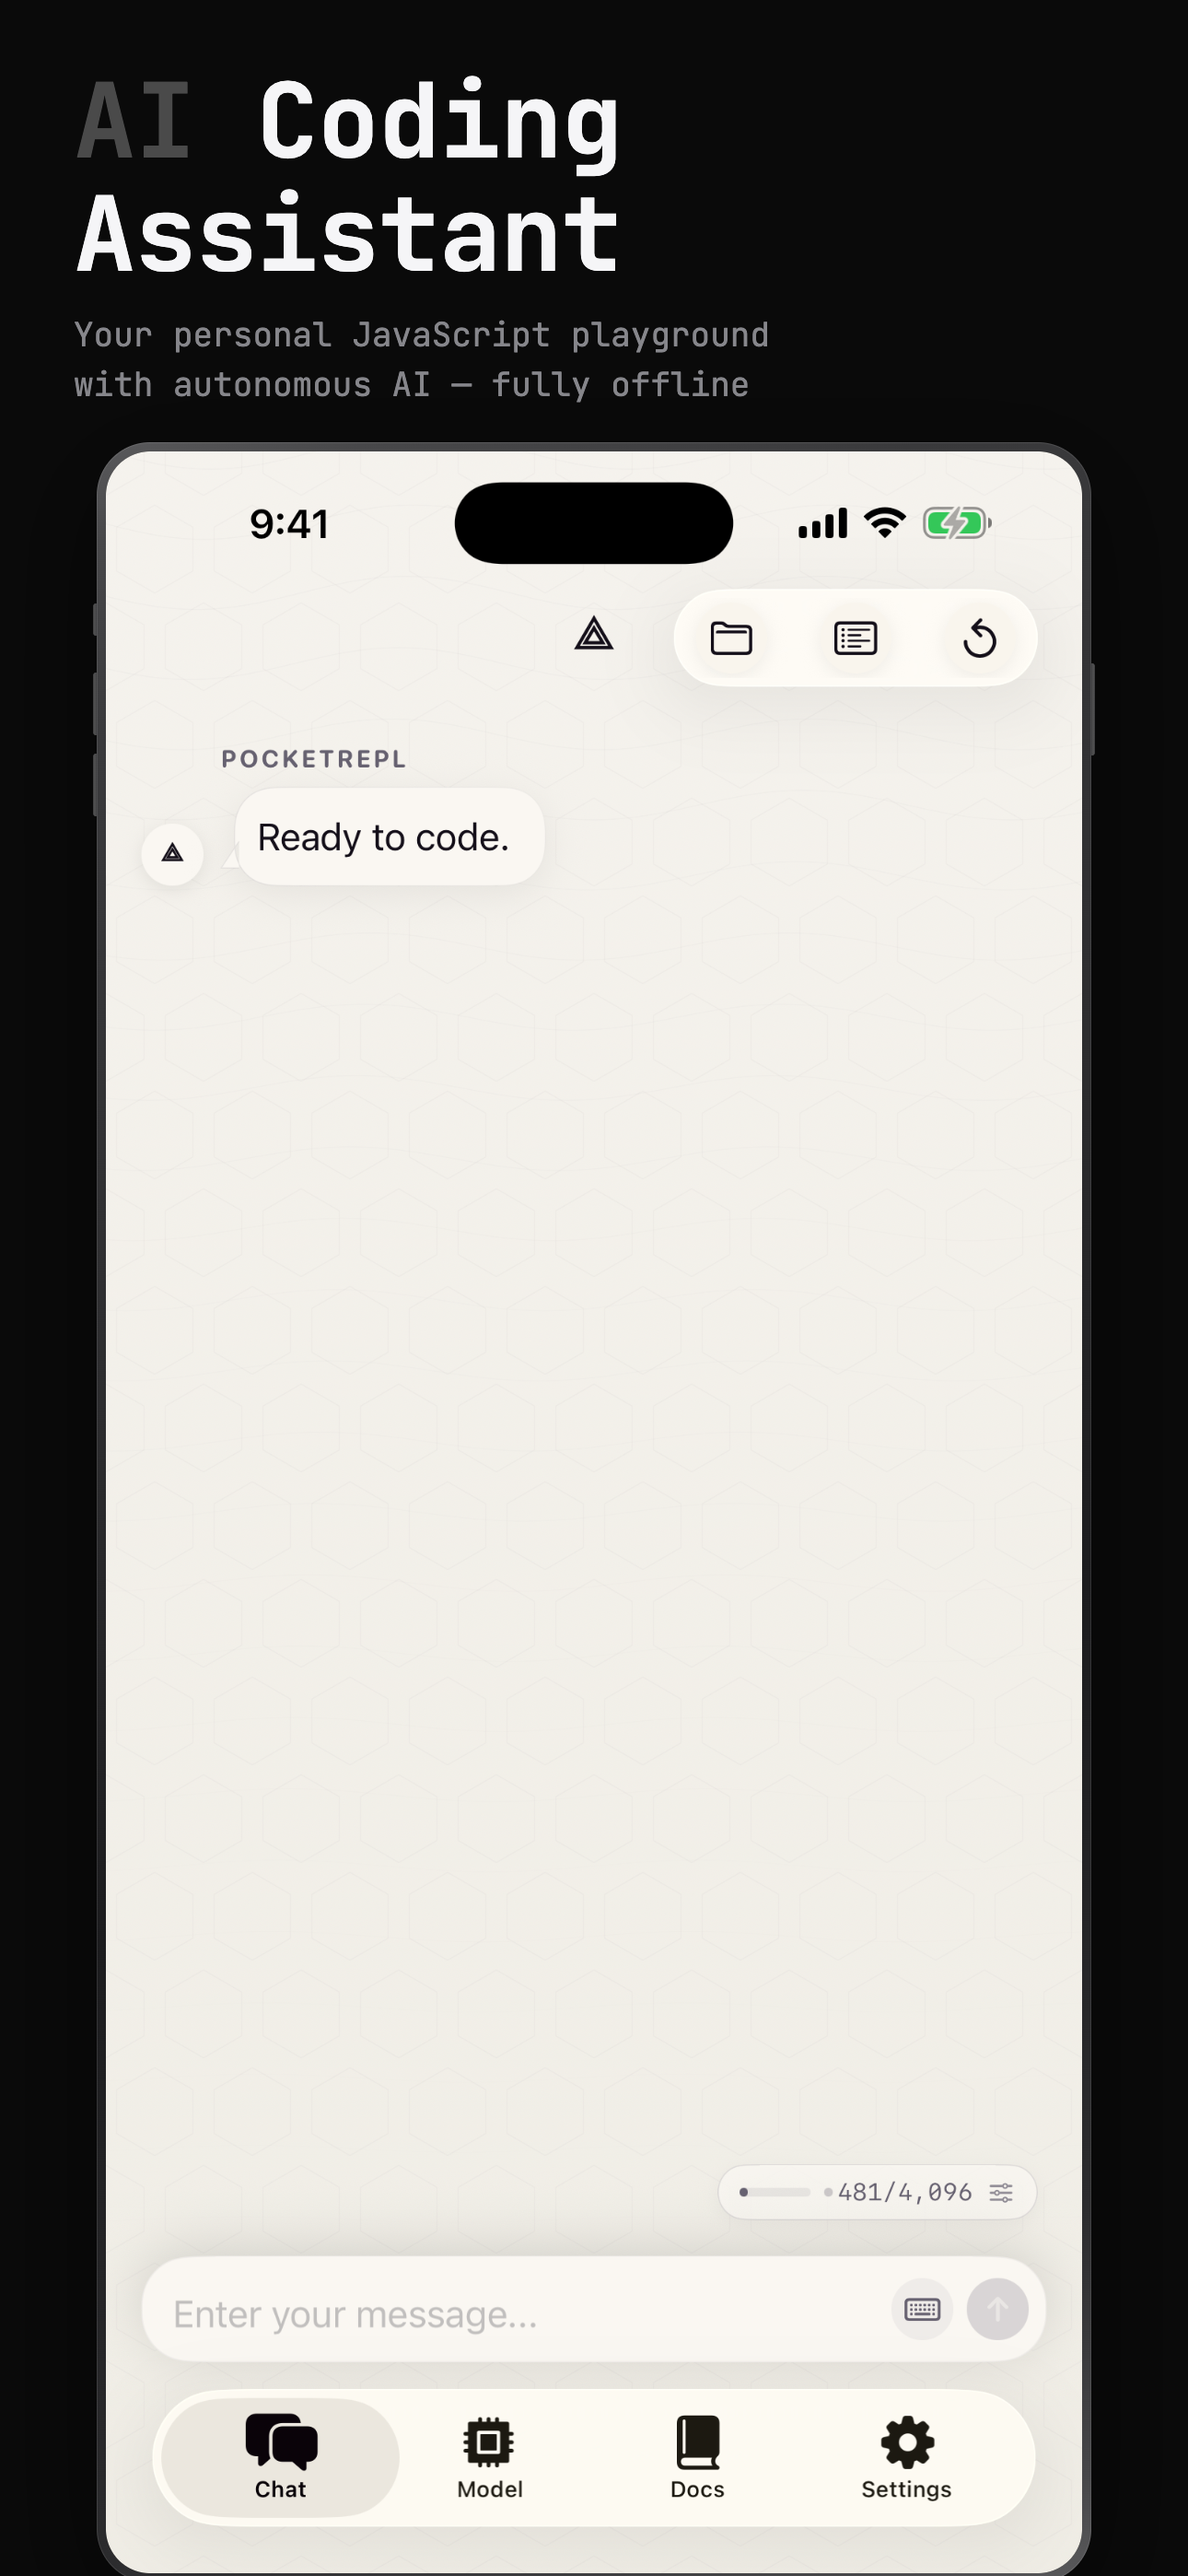
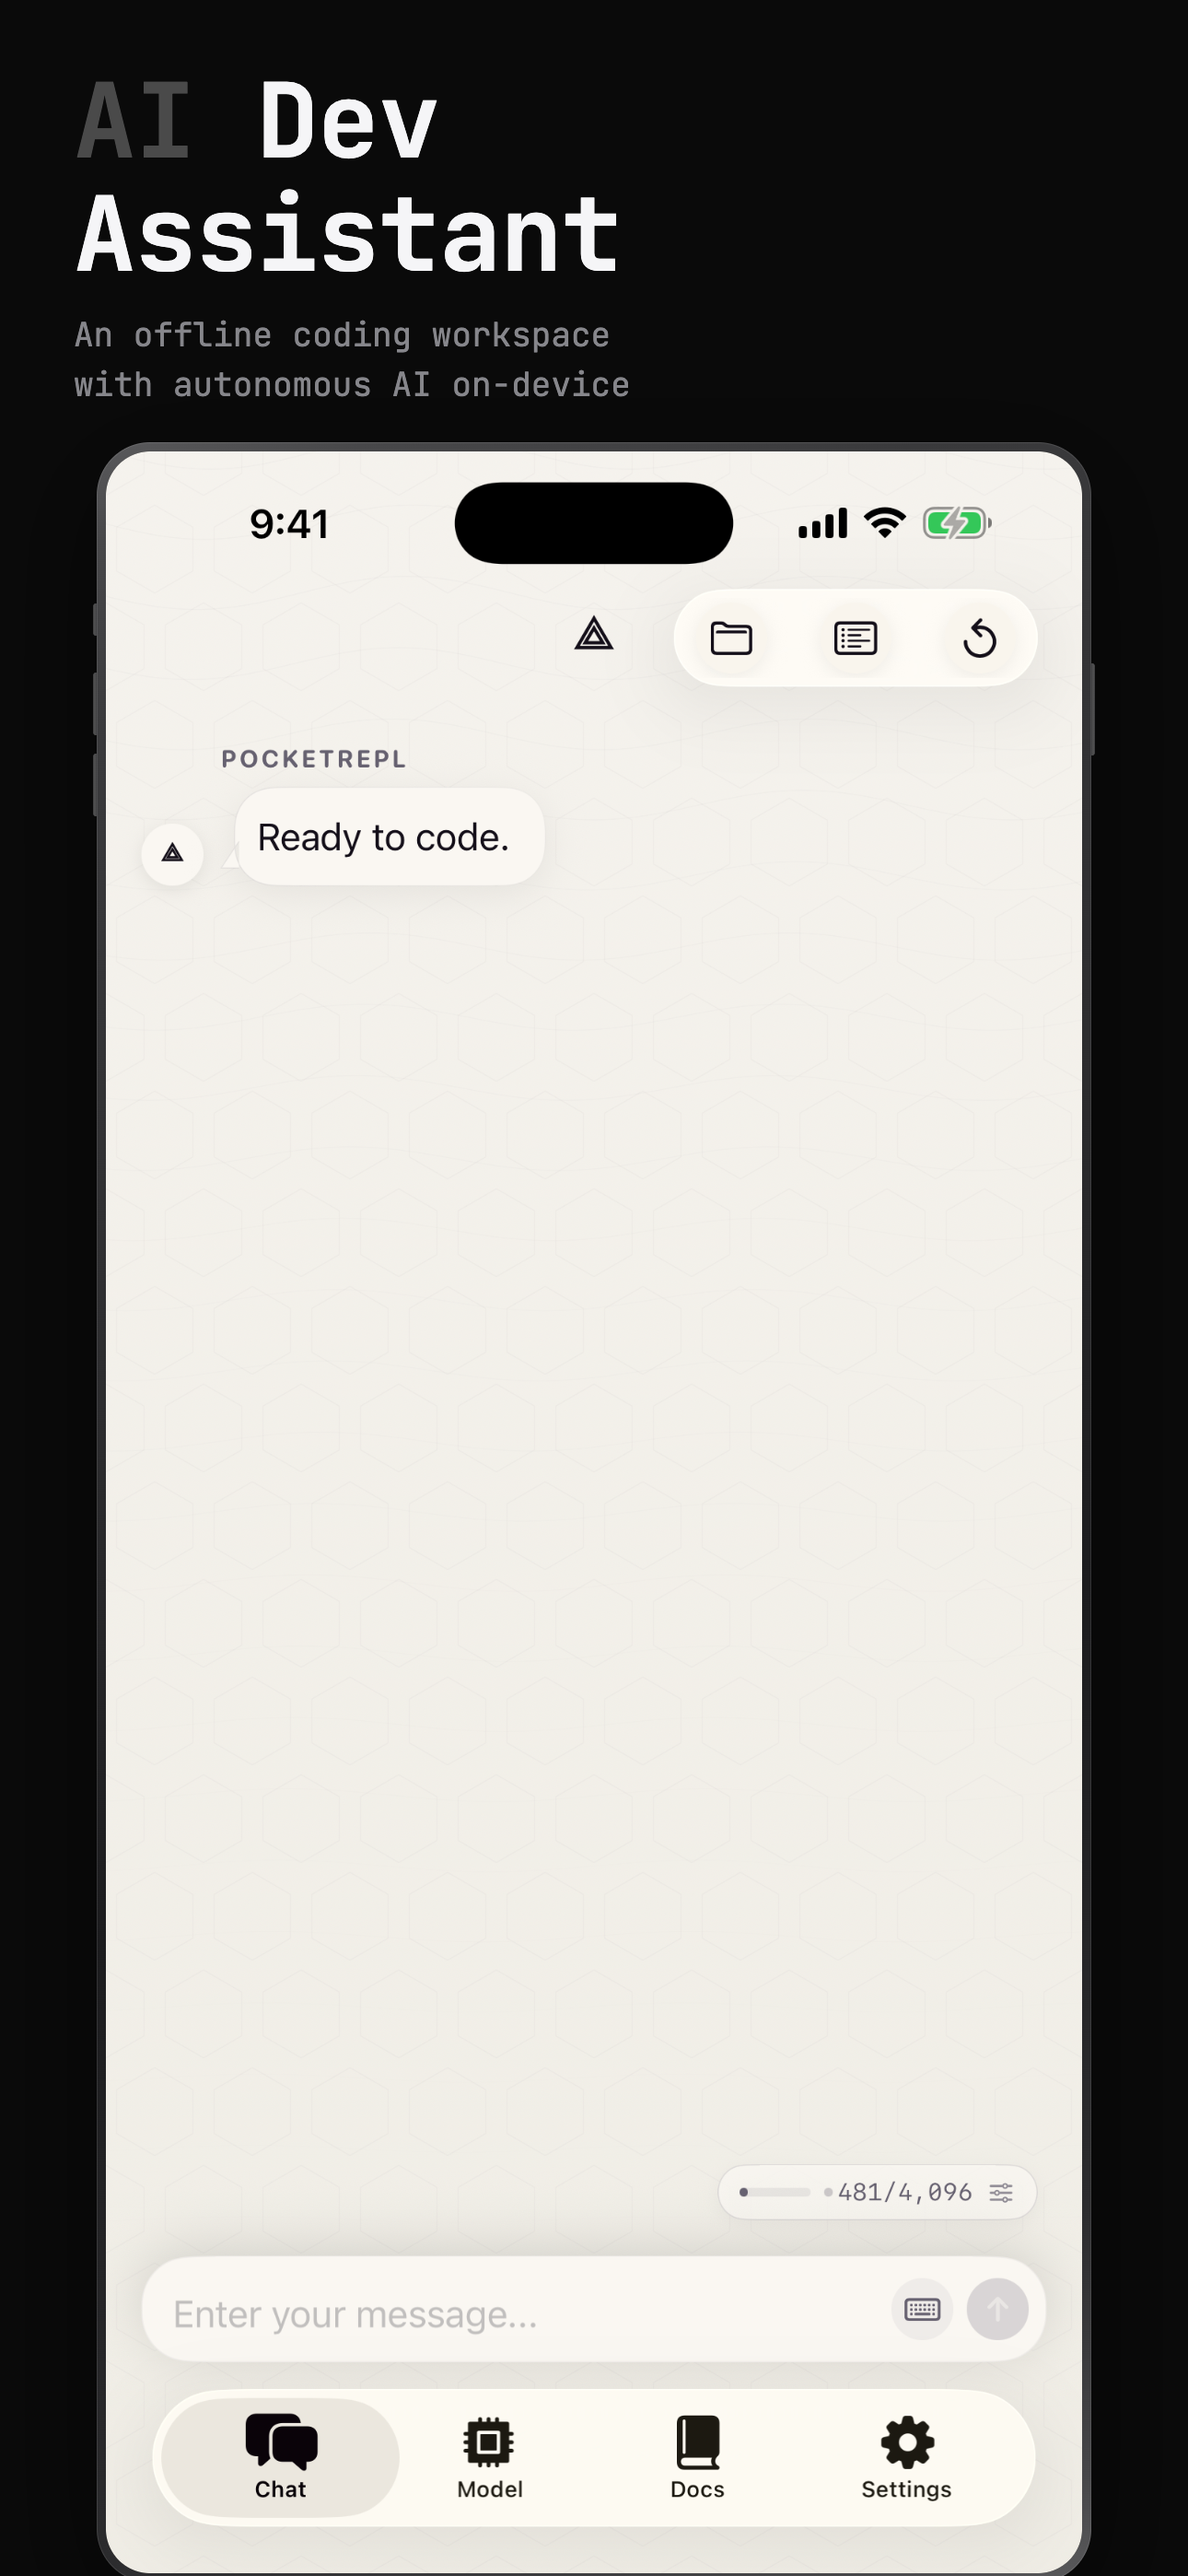
Update App Store assets, metadata, and UI text fixes

diff --git a/PocketREPL/design/screenshots/v1.0/configs/slides-ios.html b/PocketREPL/design/screenshots/v1.0/configs/slides-ios.html
@@ -126,8 +126,8 @@
 
 <div class="slide" id="slide-1">
   <div class="text-block">
-    <div class="headline"><span class="accent">AI</span> Coding<br>Assistant</div>
-    <div class="subtitle">Your personal JavaScript playground<br>with autonomous AI — fully offline</div>
+    <div class="headline"><span class="accent">AI</span> Dev<br>Assistant</div>
+    <div class="subtitle">An offline coding workspace<br>with autonomous AI on-device</div>
   </div>
   <div class="phone">
     <div class="phone-body">
@@ -148,7 +148,7 @@
   </div>
   <div class="text-block">
     <div class="headline">Local <span class="accent">LLM</span><br>Powered</div>
-    <div class="subtitle">Download and run coding models<br>directly on your device</div>
+    <div class="subtitle">Download and run local models<br>directly on your device</div>
   </div>
 </div>
 

diff --git a/PocketREPL/design/screenshots/v1.0/configs/slides-ipad.html b/PocketREPL/design/screenshots/v1.0/configs/slides-ipad.html
@@ -126,8 +126,8 @@
 
 <div class="slide" id="slide-1">
   <div class="text-block">
-    <div class="headline"><span class="accent">AI</span> Coding<br>Assistant</div>
-    <div class="subtitle">Your personal JavaScript playground<br>with autonomous AI — fully offline</div>
+    <div class="headline"><span class="accent">AI</span> Dev<br>Assistant</div>
+    <div class="subtitle">An offline coding workspace<br>with autonomous AI on-device</div>
   </div>
   <div class="phone">
     <div class="phone-body">
@@ -148,7 +148,7 @@
   </div>
   <div class="text-block">
     <div class="headline">Local <span class="accent">LLM</span><br>Powered</div>
-    <div class="subtitle">Download and run coding models<br>directly on your device</div>
+    <div class="subtitle">Download and run local models<br>directly on your device</div>
   </div>
 </div>
 

diff --git a/PocketREPL/PocketREPL/UI/FileBrowserView.swift b/PocketREPL/PocketREPL/UI/FileBrowserView.swift
@@ -61,9 +61,9 @@ struct FileBrowserView: View {
             }
         } message: { file in
             if file.kind == .directory {
-                Text(""\(file.name)" and all its contents will be permanently deleted.")
+                Text("\"\(file.name)\" and all its contents will be permanently deleted.")
             } else {
-                Text(""\(file.name)" will be permanently deleted.")
+                Text("\"\(file.name)\" will be permanently deleted.")
             }
         }
         .escherNavigationStyle()

diff --git a/PocketREPL/PocketREPL/UI/ChatView.swift b/PocketREPL/PocketREPL/UI/ChatView.swift
@@ -636,7 +636,7 @@ struct ToolResultBubble: View {
                     .frame(maxWidth: .infinity, alignment: .leading)
             }
         }
-        .sheet(item: $selectedFileEntry) { file in
+        .sheet(item: selectedFileEntry) { file in
             if let projectStore = projectStore {
                 FilePreviewSheet(projectStore: projectStore, file: file)
             }

diff --git a/PocketREPL/PocketREPL/UI/ConversationListView.swift b/PocketREPL/PocketREPL/UI/ConversationListView.swift
@@ -66,7 +66,7 @@ struct ConversationHistorySheet: View {
                 conversationToDelete = nil
             }
         } message: { conversation in
-            Text(""\(conversation.title)" will be permanently deleted.")
+            Text("\"\(conversation.title)\" will be permanently deleted.")
         }
         .task {
             await session.loadConversations()
